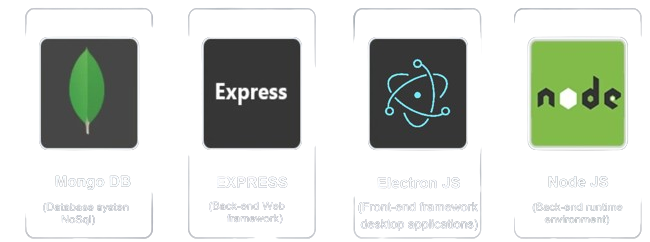
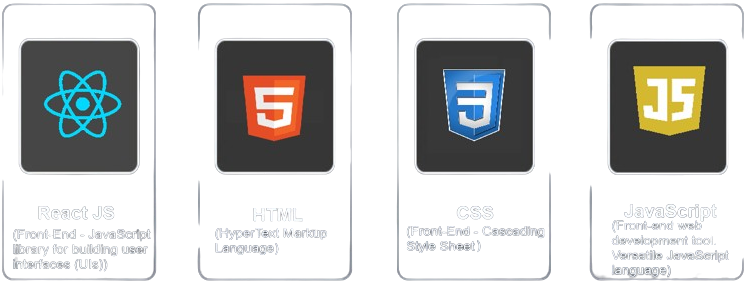
melhorias no css img

diff --git a/index.html b/index.html
@@ -8,6 +8,7 @@
     <link rel="stylesheet" href="./styles/styles.css">
     <link rel="stylesheet" href="./styles/carousel.css">
     <link rel="stylesheet" href="./styles/about.css">
+    <link rel="stylesheet" href="./styles/portfolio.css">
 
 </head>
 
@@ -90,20 +91,22 @@
                         <button class="carousel-prev"><img class="seta_esquerda" src="./img/seta_esquerda.png" alt="Anterior"></button>
                         <div class="carousel-inner">
                        
-                            <div id="squad-1" class="carousel-item active">
-                                <div class="background-print"></div><img src="./img/stack.png" alt="">
+                            <div class="carousel-item active">
+                                <img class="img" src="./img/stack.png" alt="">
                             </div>
-                            <!-- <div id="squad-2" class="carousel-item"><img src="../img/stack.png" alt=""></div>
-                            <div id="squad-3" class="carousel-item"></div>
+                            <div  class="carousel-item">
+                                <img class="img" src="../img/stack2.png" alt="">
+                            </div>
+                            <!-- <div id="squad-3" class="carousel-item"></div>
                             <div id="squad-4" class="carousel-item"></div>
                             <div id="squad-5" class="carousel-item"></div> -->
                         </div>
                         <button class="carousel-next"><img class="seta_direita" src="./img/seta_direita.png" alt="Próximo"></button>
                     </div>
         </section>
-<h1 class="title-portfolio">Alguns Projetos do Meu Portfólio</h1>
-        <section class="section-carousel">
-          
+
+        <section class="section-portfolio">
+        <h1 class="title-portfolio">Alguns Projetos do Meu Portfólio</h1>
         </section>
 
     </main>

diff --git a/styles/carousel.css b/styles/carousel.css
@@ -1,5 +1,5 @@
 :root {
-    --carousel-item-width: 660px;
+    --carousel-item-width: 600px;
     --carousel-item-height: 250px;
 }
 
@@ -15,7 +15,6 @@
 }
 
 .carousel-inner{
-    display: flex;
     /* background-color: blue; */
 }
 .carousel-prev,.carousel-next{
@@ -24,36 +23,12 @@
   height: var(--carousel-item-height);
 }
 
-#squad-1 {
-    border-radius: 5px;
-    width: var(--carousel-item-width);
-    height: var(--carousel-item-height);
-    position: relative;
-}
-
-#squad-2 {
+.img{
     border-radius: 5px;
     width: var(--carousel-item-width);
     height: var(--carousel-item-height);
 }
 
-#squad-3 {
-    border-radius: 5px;
-    width: var(--carousel-item-width);
-    height: var(--carousel-item-height);
-}
-
-#squad-4 {
-    border-radius: 5px;
-    width: var(--carousel-item-width);
-    height: var(--carousel-item-height);
-}
-
-#squad-5 {
-    border-radius: 5px;
-    width: var(--carousel-item-width);
-    height: var(--carousel-item-height);
-}
 .carousel-item {
     display: none;
 }
@@ -94,12 +69,4 @@ height: 100vh;
     z-index: -1;
 }
 
-.background-print{
-    width: 100%;
-    height: 100%;
-    position: absolute;
-    cursor: pointer;
-}
-.background-print:hover{
-    background: rgba(0, 66, 97, 0);
-}
+

diff --git a/styles/portfolio.css b/styles/portfolio.css
@@ -1,0 +1,8 @@
+.section-portfolio{
+    width: 100%;
+    height: 100vh;
+}
+.title-portfolio{
+    margin-top: 200px;
+    /* background-color: red; */
+}
